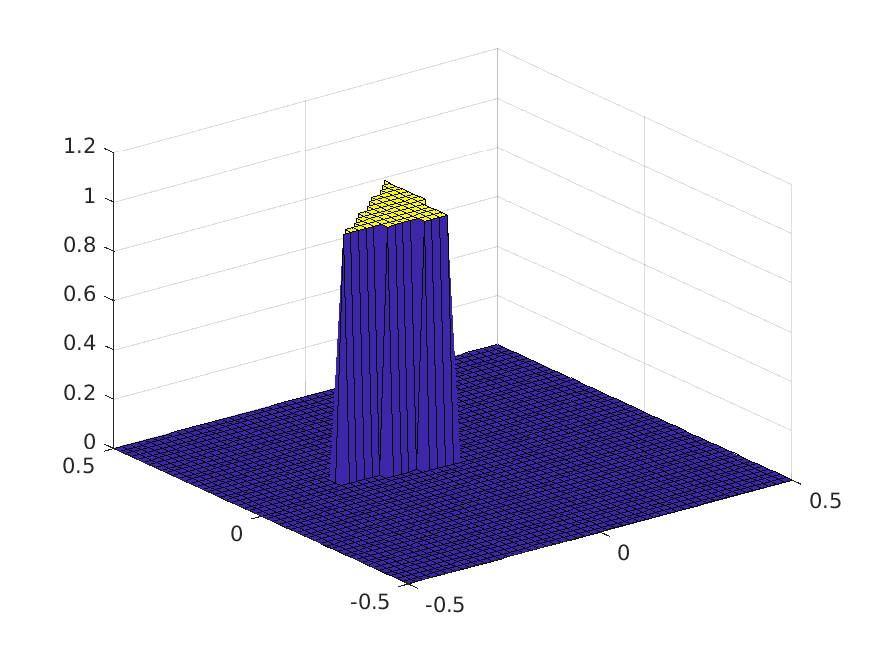
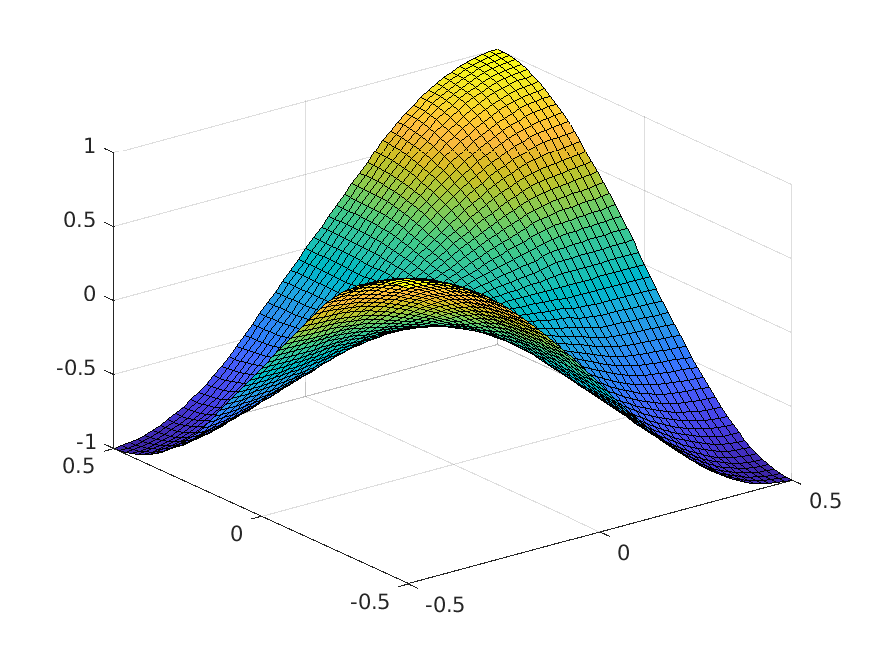
some testing

diff --git a/Codes1.1/Codes3D/tests/test_fluxes.m b/Codes1.1/Codes3D/tests/test_fluxes.m
@@ -1,0 +1,88 @@
+% compare the fluxes from Maxwell3D with the fluxes from Lawson
+
+Globals3D; 
+N = 1;
+[Nv, VX, VY, VZ, K, EToV] = MeshReaderGambit3D('cubeK86.neu');
+StartUp3D;
+
+Ex = sin(1*pi*x).*sin(1*pi*y);
+Ey = sin(2*pi*x).*sin(2*pi*y);
+Ez = sin(3*pi*x).*sin(3*pi*y);
+Hx = sin(4*pi*x).*sin(4*pi*y);
+Hy = sin(5*pi*x).*sin(5*pi*y);
+Hz = sin(6*pi*x).*sin(6*pi*y);
+U = FieldsToU(Hx, Hy, Hz, Ex, Ey, Ez);
+
+%% Flux from Maxwell3D
+% storage for field differences at faces
+dHx = zeros(Nfp*Nfaces,K); dHy = dHx; dHz = dHx; 
+dEx = zeros(Nfp*Nfaces,K); dEy = dEx; dEz = dEx; 
+
+% form field differences at faces  
+dHx(:)  = Hx(vmapP)-Hx(vmapM);  dEx(:)  = Ex(vmapP)-Ex(vmapM);	
+dHy(:)  = Hy(vmapP)-Hy(vmapM); 	dEy(:)  = Ey(vmapP)-Ey(vmapM);	
+dHz(:)  = Hz(vmapP)-Hz(vmapM);  dEz(:)  = Ez(vmapP)-Ez(vmapM);  
+
+% make silver mueller boundary conditions
+dHx(mapB) = -2*Hx(vmapB);  dEx(mapB) = -2*Ex(vmapB); 
+dHy(mapB) = -2*Hy(vmapB);  dEy(mapB) = -2*Ey(vmapB); 
+dHz(mapB) = -2*Hz(vmapB);  dEz(mapB) = -2*Ez(vmapB);
+
+alpha=0; %central flux
+
+ndotdH = nx.*dHx + ny.*dHy + nz.*dHz;
+ndotdE = nx.*dEx + ny.*dEy + nz.*dEz;
+
+fluxHx = -ny.*dEz + nz.*dEy + alpha*(dHx - ndotdH.*nx); 
+fluxHy = -nz.*dEx + nx.*dEz + alpha*(dHy - ndotdH.*ny); 
+fluxHz = -nx.*dEy + ny.*dEx + alpha*(dHz - ndotdH.*nz); 
+
+fluxEx =  ny.*dHz - nz.*dHy + alpha*(dEx - ndotdE.*nx); 
+fluxEy =  nz.*dHx - nx.*dHz + alpha*(dEy - ndotdE.*ny); 
+fluxEz =  nx.*dHy - ny.*dHx + alpha*(dEz - ndotdE.*nz); 
+
+% calculate fluxes
+fluxHx = LIFT*(Fscale.*fluxHx/2);
+fluxHy = LIFT*(Fscale.*fluxHy/2);
+fluxHz = LIFT*(Fscale.*fluxHz/2);
+
+fluxEx =  LIFT*(Fscale.*fluxEx/2);
+fluxEy =  LIFT*(Fscale.*fluxEy/2);
+fluxEz =  LIFT*(Fscale.*fluxEz/2);
+
+%% Flux from Lawson
+% K matrix
+Kmat = sparse(3*Np*K,3*Np*K,30*K*Np^2);
+blksize = 3 * Np;
+invM = inv(MassMatrix);
+
+for i = 1:K %rows
+    invMi = invM./J(1, i);
+    invMi = blkdiag(invMi, invMi, invMi);
+    
+    % diagonal element
+    Kmat((i-1)*blksize+1:i*blksize, (i-1)*blksize+1:i*blksize) = -invMi * SurfaceMassLawson(r,s,t,i);
+    
+    % the SikP
+    for j = 1:4
+        k = EToE(i,j);
+        if k~=i %check for boundary
+            Kmat((i-1)*blksize+1:i*blksize, (k-1)*blksize+1:k*blksize) = -invMi * S_ikPlusLawson(i,k,r,s,t);
+        end
+    end
+end
+
+
+% SE matrix
+SE = sparse(3*Np*K,3*Np*K,9*K*Np^2);
+for i = 1:K
+    invMi = invM./J(1, i);
+    invMi = blkdiag(invMi, invMi, invMi);
+    SE((i-1)*blksize+1:i*blksize, (i-1)*blksize+1:i*blksize) = invMi * S_iELawson(i,r,s,t);
+end
+
+Kmat = [SE, Kmat; -Kmat, SE];
+fluxU = Kmat * U;
+[fluxHx2, fluxHy2, fluxHz2, fluxEx2, fluxEy2, fluxEz2] = UToFields(fluxU);
+
+

diff --git a/Codes1.1/Codes3D/tests/test_Curls.m b/Codes1.1/Codes3D/tests/test_Curls.m
@@ -1,0 +1,46 @@
+% compare the curls from Curl3D with the curls from Lawson
+
+Globals3D; 
+N = 1;
+[Nv, VX, VY, VZ, K, EToV] = MeshReaderGambit3D('cube.neu');
+StartUp3D;
+
+%%
+Ex = sin(1*pi*x).*sin(1*pi*y);
+Ey = sin(2*pi*x).*sin(2*pi*y);
+Ez = sin(3*pi*x).*sin(3*pi*y);
+Hx = sin(4*pi*x).*sin(4*pi*y);
+Hy = sin(5*pi*x).*sin(5*pi*y);
+Hz = sin(6*pi*x).*sin(6*pi*y);
+U = FieldsToU(Hx, Hy, Hz, Ex, Ey, Ez);
+
+% curls from Curl3D
+[curlHx,curlHy,curlHz] = Curl3D(Hx,Hy,Hz);
+[curlEx,curlEy,curlEz] = Curl3D(Ex,Ey,Ez);
+
+% calc Dmat for MaxwellRHS3D
+blksize = 3 * Np;
+Dmat = sparse(K*3*Np, K*3*Np, 9*Np^2*K);
+for i = 1:K
+    Dx = rx(1,i) * Dr + sx(1,i) * Ds + tx(1,i) * Dt;
+    Dy = ry(1,i) * Dr + sy(1,i) * Ds + ty(1,i) * Dt;
+    Dz = rz(1,i) * Dr + sz(1,i) * Ds + tz(1,i) * Dt;
+    S = [zeros(Np), -Dz, Dy; Dz, zeros(Np), -Dx; -Dy, Dx, zeros(Np)];
+    Dmat((i-1)*blksize+1:i*blksize, (i-1)*blksize+1:i*blksize) = S;
+end
+Dmat = [sparse(K*3*Np, K*3*Np), Dmat; -Dmat, sparse(K*3*Np, K*3*Np)];
+
+%curls from Lawson
+curlU = Dmat*U;
+[curlHx2, curlHy2, curlHz2, curlEx2, curlEy2, curlEz2] = UToFields(curlU);
+
+%comparison
+norm(-curlEx-curlHx2)
+norm(-curlEy-curlHy2)
+norm(-curlEz-curlHz2)
+norm(curlHx-curlEx2)
+norm(curlHy-curlEy2)
+norm(curlHz-curlEz2)
+
+% Conclusion: The Curls are the same!
+

diff --git a/Codes1.1/Codes3D/Maxwell3DPointSource.m b/Codes1.1/Codes3D/Maxwell3DPointSource.m
@@ -11,7 +11,7 @@ Ez_time = [];
 
 
 f = figure('visible','off');
-PlotPlain3D(1, Ez); drawnow; pause(0.1);
+PlotPlain3D(0, Ez); drawnow; pause(0.1);
 filename = "field" + num2str(0 + ".png");
 saveas(f,filename)
        
@@ -41,7 +41,7 @@ while (time<FinalTime) % outer time step loop
   for INTRK = 1:5   % inner multi-stage Runge-Kutta loop
     
     % compute right hand side of TM-mode Maxwell's equations
-    [rhsHx, rhsHy, rhsHz, rhsEx, rhsEy, rhsEz] = MaxwellRHS3D(Hx,Hy,Hz,Ex,Ey,Ez);
+    [rhsHx, rhsHy, rhsHz, rhsEx, rhsEy, rhsEz] = MaxwellRHS3DTest(Hx,Hy,Hz,Ex,Ey,Ez);
     
     % initiate, increment Runge-Kutta residuals and update fields
     resHx = rk4a(INTRK)*resHx + dt*rhsHx;   Hx = Hx+rk4b(INTRK)*resHx;  	
@@ -59,7 +59,7 @@ while (time<FinalTime) % outer time step loop
    Ez_time = [Ez_time, [time;Ez(node_idx(1),node_idx(2))]];
    
    %plot
-   if time > nextplottime
+   %if time > nextplottime
        nextplottime = nextplottime + 0.2;
        % save plot
        f = figure('visible','off');
@@ -67,7 +67,7 @@ while (time<FinalTime) % outer time step loop
        filename = "field" + num2str(tstep + ".png");
        title(num2str(time));
        saveas(f,filename)
-   end
+   %end
 end
 return;
 

diff --git a/Codes1.1/Codes3D/tests/test.m b/Codes1.1/Codes3D/tests/test.m
@@ -6,7 +6,7 @@
 Globals3D;
 
 % Polynomial order of approximation 
-N = 3;
+N = 2;
 
 % Read in Mesh
 [Nv, VX, VY, VZ, K, EToV] = MeshReaderGambit3D('cubeK268.neu');
@@ -29,8 +29,8 @@ FinalTime = 1;
 % zero initial condition 
 Hx = zeros(Np, K); Hy = zeros(Np, K); Hz = zeros(Np, K);
 Ex = zeros(Np, K); Ey = zeros(Np, K); Ez = zeros(Np, K);
-%xmode = 1; ymode = 1; 
-%Ez = sin(xmode*pi*x).*sin(ymode*pi*y);
+xmode = 1; ymode = 1; 
+Ez = sin(xmode*pi*x).*sin(ymode*pi*y);
 
 % node_source = findNearestNode(source_coordinates);
 % Ez(:,node_source(2)) = 1;
@@ -64,11 +64,11 @@ toc;
 Hx = zeros(Np, K); Hy = zeros(Np, K); Hz = zeros(Np, K);
 Ex = zeros(Np, K); Ey = zeros(Np, K); Ez = zeros(Np, K);
 % 1 element
-node_source = findNearestNode(source_coordinates);
-Ez(:,node_source(2)) = 1;
+%node_source = findNearestNode(source_coordinates);
+%Ez(:,node_source(2)) = 1;
 % mode
-%xmode = 1; ymode = 1; 
-%Ez = sin(xmode*pi*x).*sin(ymode*pi*y);
+xmode = 1; ymode = 1; 
+Ez = sin(xmode*pi*x).*sin(ymode*pi*y);
 
 [Hx,Hy,Hz,Ex,Ey,Ez] = Maxwell3DMat(Hx,Hy,Hz,Ex,Ey,Ez,FinalTime,source,source_coordinates);
 

diff --git a/Codes1.1/Codes3D/Maxwell3DMat.m b/Codes1.1/Codes3D/Maxwell3DMat.m
@@ -29,7 +29,7 @@ idx_sample = idxEH_to_idxU(3, node_idx);
 dt = dtscale3D;  % TW: buggy
 
 % correct dt for integer # of time steps
-Ntsteps = ceil(FinalTime/dt); dt = FinalTime/Ntsteps
+Ntsteps = ceil(FinalTime/dt); dt = FinalTime/Ntsteps;
 
 time = 0; tstep = 1;
 
@@ -59,6 +59,7 @@ while (time<FinalTime) % outer time step loop
        nextplottime = nextplottime + 0.05;
        f = figure('visible','off');
        PlotPlain3D(0, Ez); drawnow; pause(0.01);
+       title(num2str(time));
        filename = "field" + num2str(tstep + ".png");
        saveas(f,filename)
   %end

diff --git a/Codes1.1/Codes3D/tests/test_S_ikPlus.m b/Codes1.1/Codes3D/tests/test_S_ikPlus.m
@@ -22,3 +22,21 @@ nodes_k_minus = vmapM(4*Nfp*(k-1)+1 + (face_k-1)*Nfp : 4*Nfp*(k-1) + face_k*Nfp)
 
 l = 1;
 [~, l2] = ismember(nodes_k_minus(l), nodes_i_plus);
+
+%Conclusion: The index mapping works properly.
+
+%% compare S_ikP and S_kiP
+%find two elements that share a face
+i = 5;
+for j = 1:4
+   if EToE(i,j) ~= i
+      k =  EToE(i,j);
+      break;
+   end
+end
+
+S_ikP = S_ikPlusLawson(i, k, r, s, t);
+S_kiP = S_ikPlusLawson(k, i, r, s, t);
+
+% Conclusion: S_ikP and S_kiP have the same values * (-1) but at different
+% locations

diff --git a/Codes1.1/Codes3D/InitMatLawsonSparse.m b/Codes1.1/Codes3D/InitMatLawsonSparse.m
@@ -30,7 +30,7 @@ for i = 1:K
     % Diagonal entry
     S = S - invMi * SurfaceMassLawson(r,s,t,i);
     
-    % fill the row
+    % fill the row %fix: only 4 blocks can be nonzero
     for j = 1:K
         % Check whether to write into Cfine or Ccoarse
         if ismember(j, fine_idx)

diff --git a/Codes1.1/Codes3D/MaxwellRHS3D.m b/Codes1.1/Codes3D/MaxwellRHS3D.m
@@ -19,7 +19,7 @@ dHx(mapB) = -2*Hx(vmapB);  dEx(mapB) = -2*Ex(vmapB);
 dHy(mapB) = -2*Hy(vmapB);  dEy(mapB) = -2*Ey(vmapB); 
 dHz(mapB) = -2*Hz(vmapB);  dEz(mapB) = -2*Ez(vmapB);
 
-alpha=1;
+alpha=0;
 
 ndotdH = nx.*dHx + ny.*dHy + nz.*dHz;
 ndotdE = nx.*dEx + ny.*dEy + nz.*dEz;

diff --git a/Codes1.1/ServiceRoutines/PlotPlain3D.m b/Codes1.1/ServiceRoutines/PlotPlain3D.m
@@ -7,7 +7,7 @@ max_x = max(x,[],'all');
 step = (max_x - min_x)/50;
 [x_grid, y_grid] = meshgrid(min_x:step:max_x);
 
-% sample u
+% sample u, this loop is very slow!
 field = zeros(size(x_grid,1));
 for i = 1:size(x_grid,1)
     for j = 1:size(y_grid,1)

diff --git a/Codes1.1/Codes3D/tests/test_conversion.m b/Codes1.1/Codes3D/tests/test_conversion.m
@@ -20,6 +20,8 @@ norm(Ex - Ex2)
 norm(Ey - Ey2)
 norm(Ez - Ez2)
 
+% Conclusion: the conversions work properly.
+
 %% test conversion and reordering
 fine_idx = [145, 345, 2, 1002, 53];
 
